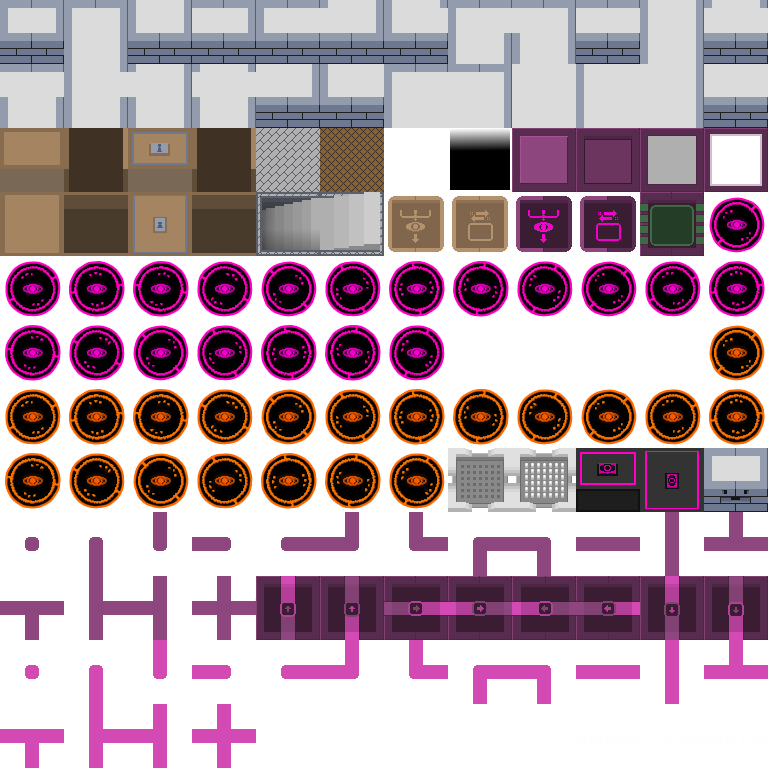
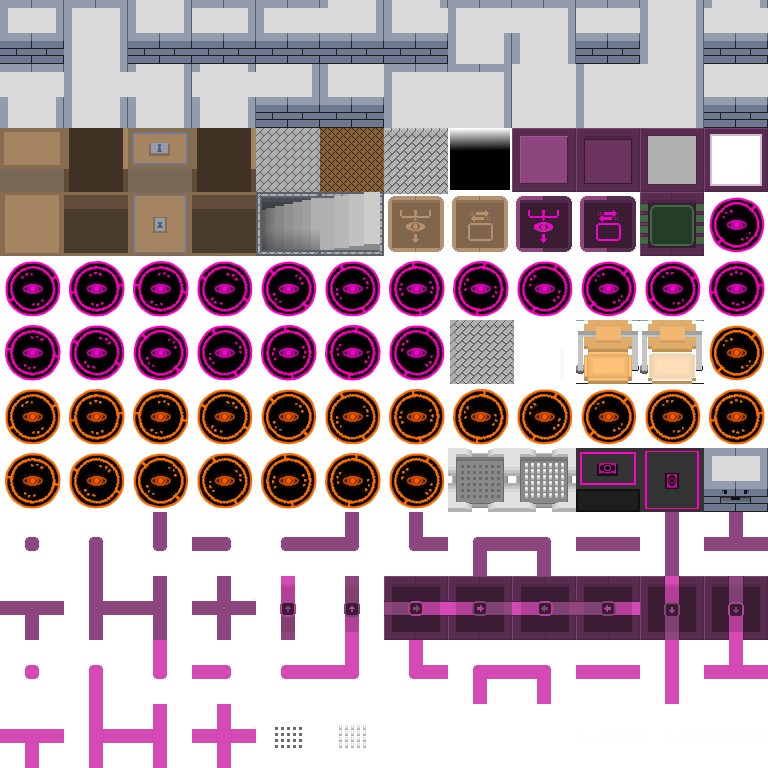
Preparing to release

diff --git a/SharpDungeon/Game/Entities/Cube.cs b/SharpDungeon/Game/Entities/Cube.cs
@@ -1,0 +1,139 @@
+using SharpDungeon.Game.Graphics;
+using SharpDungeon.Game.Tiles;
+using SharpDungeon.Game.Items;
+using System;
+using System.Collections.Generic;
+using System.Drawing;
+using System.Linq;
+using System.Text;
+using System.Threading.Tasks;
+
+namespace SharpDungeon.Game.Entities {
+    public class Cube : Entity {
+
+        Animation currentAnimation;
+
+        Animation cubeWalkRight, cubeWalkLeft, cubeWalkDown, cubeWalkUp;
+        int targetX, targetY, count, hurtCount, countRange, rndX, rndY;
+
+        public Cube(Handler handler, int worldX, int worldY) : base(handler, worldX, worldY, defaultWidth, defaultHeight) {
+            
+            cubeWalkDown = new Animation(1, Assets.cubeWalk, Animation.direction.backward);
+            cubeWalkUp = new Animation(1, Assets.cubeWalk, Animation.direction.forward);
+            cubeWalkRight = new Animation(1, Assets.cubeWalkSide, Animation.direction.forward);
+            cubeWalkLeft = new Animation(1, Assets.cubeWalkSide, Animation.direction.backward);
+
+            targetX = (int)x;
+            targetY = (int)y;
+            countRange = rnd.Next(20, 40);
+        }
+
+        public override void die() {
+            handler.world.itemManager.addItem(Item.items[rnd.Next(0, 3)].createNew((int)x, (int)y));
+            handler.world.entityManager.player.xp += 50;
+        }
+
+        public override void tick() {
+
+            if (currentAnimation != null)
+                currentAnimation.tick();
+
+            if (count < countRange) {
+                count++;
+            } else {
+                count = 0;
+
+                switch(rnd.Next(0, 4)) {
+                    //right
+                    case 0:
+                        rndX = 1;
+                        rndY = 0;
+                        if (!handler.world.getBackTile((int)(x + rndX * Tile.tileWidth) / Tile.tileWidth,
+                                           (int)(y + rndY * Tile.tileHeight) / Tile.tileHeight).isSolid()) {
+
+                            if (currentAnimation != null)
+                                currentAnimation.reset();
+                            currentAnimation = cubeWalkRight;
+                        }
+                        break;
+
+                    //left
+                    case 1:
+                        rndX = -1;
+                        rndY = 0;
+                        if (!handler.world.getBackTile((int)(x + rndX * Tile.tileWidth) / Tile.tileWidth,
+                                           (int)(y + rndY * Tile.tileHeight) / Tile.tileHeight).isSolid()) {
+
+                            if (currentAnimation != null)
+                                currentAnimation.reset();
+                            currentAnimation = cubeWalkLeft;
+                        }
+                        break;
+
+                    //down
+                    case 2:
+                        rndX = 0;
+                        rndY = 1;
+                        if (!handler.world.getBackTile((int)(x + rndX * Tile.tileWidth) / Tile.tileWidth,
+                                           (int)(y + rndY * Tile.tileHeight) / Tile.tileHeight).isSolid()) {
+
+                            if (currentAnimation != null)
+                                currentAnimation.reset();
+                            currentAnimation = cubeWalkDown;
+                        }
+                        break;
+
+                    //up
+                    case 3:
+                        rndX = 0;
+                        rndY = -1;
+                        if (!handler.world.getBackTile((int)(x + rndX * Tile.tileWidth) / Tile.tileWidth,
+                                           (int)(y + rndY * Tile.tileHeight) / Tile.tileHeight).isSolid()) {
+
+                            if (currentAnimation != null)
+                                currentAnimation.reset();
+                            currentAnimation = cubeWalkUp;
+                        }
+                        break;
+                }
+
+                if (!handler.world.getBackTile((int)(x + rndX * Tile.tileWidth) / Tile.tileWidth,
+                                           (int)(y + rndY * Tile.tileHeight) / Tile.tileHeight).isSolid()) {
+                    targetX = (int)(x + rndX * Tile.tileWidth);
+                    targetY = (int)(y + rndY * Tile.tileHeight);
+                }
+            }
+
+            if (targetX < x)
+                x -= 8;
+            else if (targetX > x)
+                x += 8;
+
+            if (targetY < y)
+                y -= 8;
+            else if (targetY > y)
+                y += 8;
+
+            if (targetX == x && targetY == y) {
+                    handler.world.setForeTile(Tile.wire.getId(), (int)x / Tile.tileWidth,
+                                                                 (int)y / Tile.tileHeight);
+
+                if (currentAnimation != null) {
+                    currentAnimation.reset();
+                    currentAnimation = null;
+                }
+            }
+            
+        }
+
+        public override void render(System.Drawing.Graphics g) {
+            if (currentAnimation != null)
+                g.DrawImage(currentAnimation.getCurrentFrame(), (int)(x - handler.gameCamera.xOffset), (int)(y - handler.gameCamera.yOffset), width, height);
+            else
+                g.DrawImage(Assets.cubeWalk[0], (int)(x - handler.gameCamera.xOffset), (int)(y - handler.gameCamera.yOffset), width, height);
+
+            g.FillRectangle(Brushes.Red, (int)(x - handler.gameCamera.xOffset)+5, (int)(y - handler.gameCamera.yOffset) - 7, width-6, 7);
+            g.FillRectangle(Brushes.Green, (int)(x - handler.gameCamera.xOffset)+5, (int)(y - handler.gameCamera.yOffset) - 7, (int)(((double)health / (double)defaultHealth) * (double)width)-6, 7);
+        }
+    }
+}

diff --git a/SharpDungeon/Game/Graphics/Assets.cs b/SharpDungeon/Game/Graphics/Assets.cs
@@ -43,6 +43,7 @@ namespace SharpDungeon.Game.Graphics {
         //Entities
 
         public static Bitmap[] slimeIdleWalk, slimeAttackLeft, slimeAttackRight;
+        public static Bitmap[] cubeWalk, cubeWalkSide;
 
         //Buffs
 
@@ -187,7 +188,6 @@ namespace SharpDungeon.Game.Graphics {
                 wire[46] = tileSheet.crop(width * 10, height * 11, width, height);
                 wire[47] = tileSheet.crop(width * 11, height * 11, width, height);
                 
-
                 invertor = new Bitmap[8];
                 invertor[0] = tileSheet.crop(width * 4, height * 9, width, height);
                 invertor[1] = tileSheet.crop(width * 5, height * 9, width, height);
@@ -249,7 +249,6 @@ namespace SharpDungeon.Game.Graphics {
                 door[1] = tileSheet.crop(0, height * 3, width, height);
                 door[2] = tileSheet.crop(width, height * 2, width, height);
                 door[3] = tileSheet.crop(width, height * 3, width, height);
-
 
                 logo = tileSheet.crop(width*9, height*11, width*3, height);
                 
@@ -342,6 +341,40 @@ namespace SharpDungeon.Game.Graphics {
                 slimeAttackRight[5] = entitiesSheet.crop(width * 9, height * 2, width, height);
                 slimeAttackRight[6] = entitiesSheet.crop(width * 9, height, width, height);
                 slimeAttackRight[7] = entitiesSheet.crop(width * 9, 0, width, height);
+
+                slimeAttackRight = new Bitmap[8];
+                slimeAttackRight[0] = entitiesSheet.crop(width * 7, 0, width, height);
+                slimeAttackRight[1] = entitiesSheet.crop(width * 7, height, width, height);
+                slimeAttackRight[2] = entitiesSheet.crop(width * 7, height * 2, width, height);
+                slimeAttackRight[3] = entitiesSheet.crop(width * 9, 0, width, height);
+                slimeAttackRight[4] = entitiesSheet.crop(width * 9, height, width, height);
+                slimeAttackRight[5] = entitiesSheet.crop(width * 9, height * 2, width, height);
+                slimeAttackRight[6] = entitiesSheet.crop(width * 9, height, width, height);
+                slimeAttackRight[7] = entitiesSheet.crop(width * 9, 0, width, height);
+
+                cubeWalk = new Bitmap[10];
+                cubeWalk[0] = entitiesSheet.crop(width * 10, 0, width, height);
+                cubeWalk[1] = entitiesSheet.crop(width * 10, height, width, height);
+                cubeWalk[2] = entitiesSheet.crop(width * 10, height * 2, width, height);
+                cubeWalk[3] = entitiesSheet.crop(width * 10, height * 3, width, height);
+                cubeWalk[4] = entitiesSheet.crop(width * 10, height * 4, width, height);
+                cubeWalk[5] = entitiesSheet.crop(width * 10, height * 5, width, height);
+                cubeWalk[6] = entitiesSheet.crop(width * 10, height * 6, width, height);
+                cubeWalk[7] = entitiesSheet.crop(width * 10, height * 7, width, height);
+                cubeWalk[8] = entitiesSheet.crop(width * 10, height * 8, width, height);
+                cubeWalk[9] = entitiesSheet.crop(width * 10, height * 9, width, height);
+
+                cubeWalkSide = new Bitmap[10];
+                cubeWalkSide[0] = entitiesSheet.crop(width * 11, 0, width, height);
+                cubeWalkSide[1] = entitiesSheet.crop(width * 11, height, width, height);
+                cubeWalkSide[2] = entitiesSheet.crop(width * 11, height * 2, width, height);
+                cubeWalkSide[3] = entitiesSheet.crop(width * 11, height * 3, width, height);
+                cubeWalkSide[4] = entitiesSheet.crop(width * 11, height * 4, width, height);
+                cubeWalkSide[5] = entitiesSheet.crop(width * 11, height * 5, width, height);
+                cubeWalkSide[6] = entitiesSheet.crop(width * 11, height * 6, width, height);
+                cubeWalkSide[7] = entitiesSheet.crop(width * 11, height * 7, width, height);
+                cubeWalkSide[8] = entitiesSheet.crop(width * 11, height * 8, width, height);
+                cubeWalkSide[9] = entitiesSheet.crop(width * 11, height * 9, width, height);
 
                 fireBuff = new Bitmap[7];
                 fireBuff[0] = buffsSheet.crop(0, 0, width, height);

diff --git a/SharpDungeon/Game/World/World.cs b/SharpDungeon/Game/World/World.cs
@@ -230,17 +230,21 @@ namespace SharpDungeon.Game.World {
             foreach (Rectangle r in rooms.ToList()) {
                 for (int x = r.X; x < r.Width - 1; x++)
                     for (int y = r.Y; y < r.Height - 1; y++)
-                        if (rnd.Next(1, 10) == 1 && !getBackTile(x, y).isSolid() && 
-                            x != re.X-1 && y != re.Y-1 &&
-                            x != re.X && y != re.Y-1 &&
-                            x != re.X+1 && y != re.Y-1 &&
+                        if (rnd.Next(1, 10) == 1 && !getBackTile(x, y).isSolid() &&
+                            x != re.X - 1 && y != re.Y - 1 &&
+                            x != re.X && y != re.Y - 1 &&
+                            x != re.X + 1 && y != re.Y - 1 &&
                             x != re.X - 1 && y != re.Y &&
                             x != re.X && y != re.Y &&
                             x != re.X + 1 && y != re.Y &&
                             x != re.X - 1 && y != re.Y + 1 &&
                             x != re.X && y != re.Y + 1 &&
-                            x != re.X + 1 && y != re.Y + 1)
-                            entityManager.addEntity(new Slime(handler, x * Tile.tileWidth, y * Tile.tileHeight));
+                            x != re.X + 1 && y != re.Y + 1) {
+                            if (rnd.Next(1, 3) == 1)
+                                entityManager.addEntity(new Cube(handler, x * Tile.tileWidth, y * Tile.tileHeight));
+                            else
+                                entityManager.addEntity(new Slime(handler, x * Tile.tileWidth, y * Tile.tileHeight));
+                        }
             }
 
         }
@@ -290,6 +294,7 @@ namespace SharpDungeon.Game.World {
 
                     //Тик объявлен только для видимых тайлов, не включая воздух
                     if (!(getForeTile(x, y) is AirTile)) {
+                        //if(getForeTile(x, y).)
                         getForeTile(x, y).tick(handler, x, y);
                         getForeTile(x, y).render(g, (int)(x * Tile.tileWidth - handler.gameCamera.xOffset), (int)(y * Tile.tileHeight - handler.gameCamera.yOffset));
                     }

diff --git a/SharpDungeon/Game/Graphics/Animation.cs b/SharpDungeon/Game/Graphics/Animation.cs
@@ -11,6 +11,12 @@ namespace SharpDungeon.Game.Graphics {
         private long lastTime, timer;
         private Bitmap[] frames;
 
+        private int currentDirection;
+        public enum direction {
+            forward,
+            backward
+        }
+
         private static readonly DateTime Jan1st1970 =
         new DateTime(1970, 1, 1, 0, 0, 0, DateTimeKind.Utc);
 
@@ -21,17 +27,46 @@ namespace SharpDungeon.Game.Graphics {
             index = 0;
             lastTime = currentTimeMillis();
             timer = 0;
+
+            currentDirection = (int)direction.forward;
+        }
+
+        public Animation(int speed, Bitmap[] frames, direction direction) {
+            this.speed = speed;
+            this.frames = frames;
+            index = frames.Length-1;
+            lastTime = currentTimeMillis();
+            timer = 0;
+
+            currentDirection = (int)direction;
+        }
+
+        public void reset() {
+            if (currentDirection == (int)direction.forward)
+                index = 0;
+            else if (currentDirection == (int)direction.backward)
+                index = frames.Length - 1;
         }
 
         public void tick() {
             timer += currentTimeMillis() - lastTime;
             lastTime = currentTimeMillis();
 
-            if (timer > speed) {
-                index++;
-                timer = 0;
-                if (index >= frames.Length) {
-                    index = 0;
+            if (currentDirection == (int)direction.forward) {
+                if (timer > speed) {
+                    index++;
+                    timer = 0;
+                    if (index >= frames.Length) {
+                        index = 0;
+                    }
+                }
+            } else if (currentDirection == (int)direction.backward) {
+                if (timer > speed) {
+                    index--;
+                    timer = 0;
+                    if (index == 0) {
+                        index = frames.Length-1;
+                    }
                 }
             }
         }

diff --git a/SharpDungeon/Game/Tiles/WireTile.cs b/SharpDungeon/Game/Tiles/WireTile.cs
@@ -210,12 +210,14 @@ namespace SharpDungeon.Game.Tiles {
                 }
             }
 
-            if (handler.world.getForeMetadata(x, y) < meta && meta > 0)
+            ushort foreMeta = handler.world.getForeMetadata(x, y);
+
+            if (foreMeta < meta) 
                 handler.world.setForeMetadata((ushort)(handler.world.getForeMetadata(np.X, np.Y) - 1),
                                               x, y);
-            else if(handler.world.getForeMetadata(x, y) != 64)
-                handler.world.setForeMetadata(0,
-                                              x, y);
+            else if (foreMeta != 64)
+                handler.world.setForeMetadata(0, x, y);
+            
         }
 
         public override void render(System.Drawing.Graphics g, int x, int y) {

diff --git a/SharpDungeon/Game/Tiles/Tile.cs b/SharpDungeon/Game/Tiles/Tile.cs
@@ -31,6 +31,8 @@ namespace SharpDungeon.Game.Tiles {
         public Bitmap currentTex { get; set; }
         protected Handler handler { get; set; }
 
+        //public bool needUpdate { get; set; } = false;
+
         //Tiles array coords
         protected int x { get; set; }
         protected int y { get; set; }
@@ -44,6 +46,7 @@ namespace SharpDungeon.Game.Tiles {
             this.handler = handler;
             this.x = x;
             this.y = y;
+            //needUpdate = false;
         }
 
         //World coords

diff --git a/SharpDungeon/Game/Entities/Player.cs b/SharpDungeon/Game/Entities/Player.cs
@@ -299,7 +299,7 @@ namespace SharpDungeon.Game.Entities {
 
 
                         selection = Assets.target;
-
+                        
                         if (attackTypeNum == (int)attackType.common) {
                             List<int> arr = new List<int>();
 
